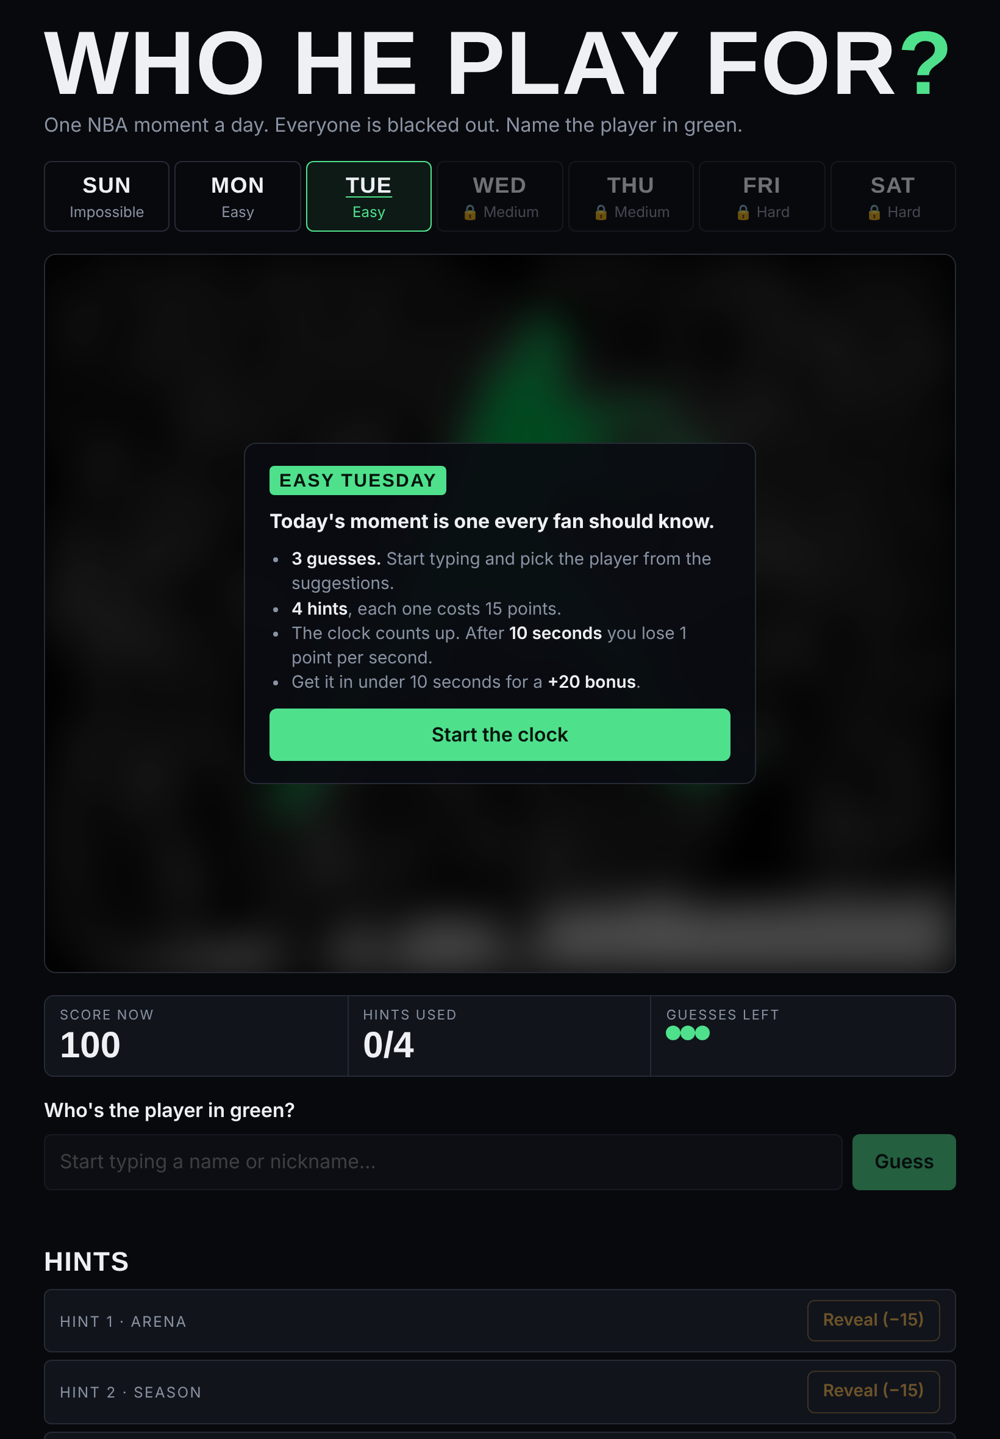
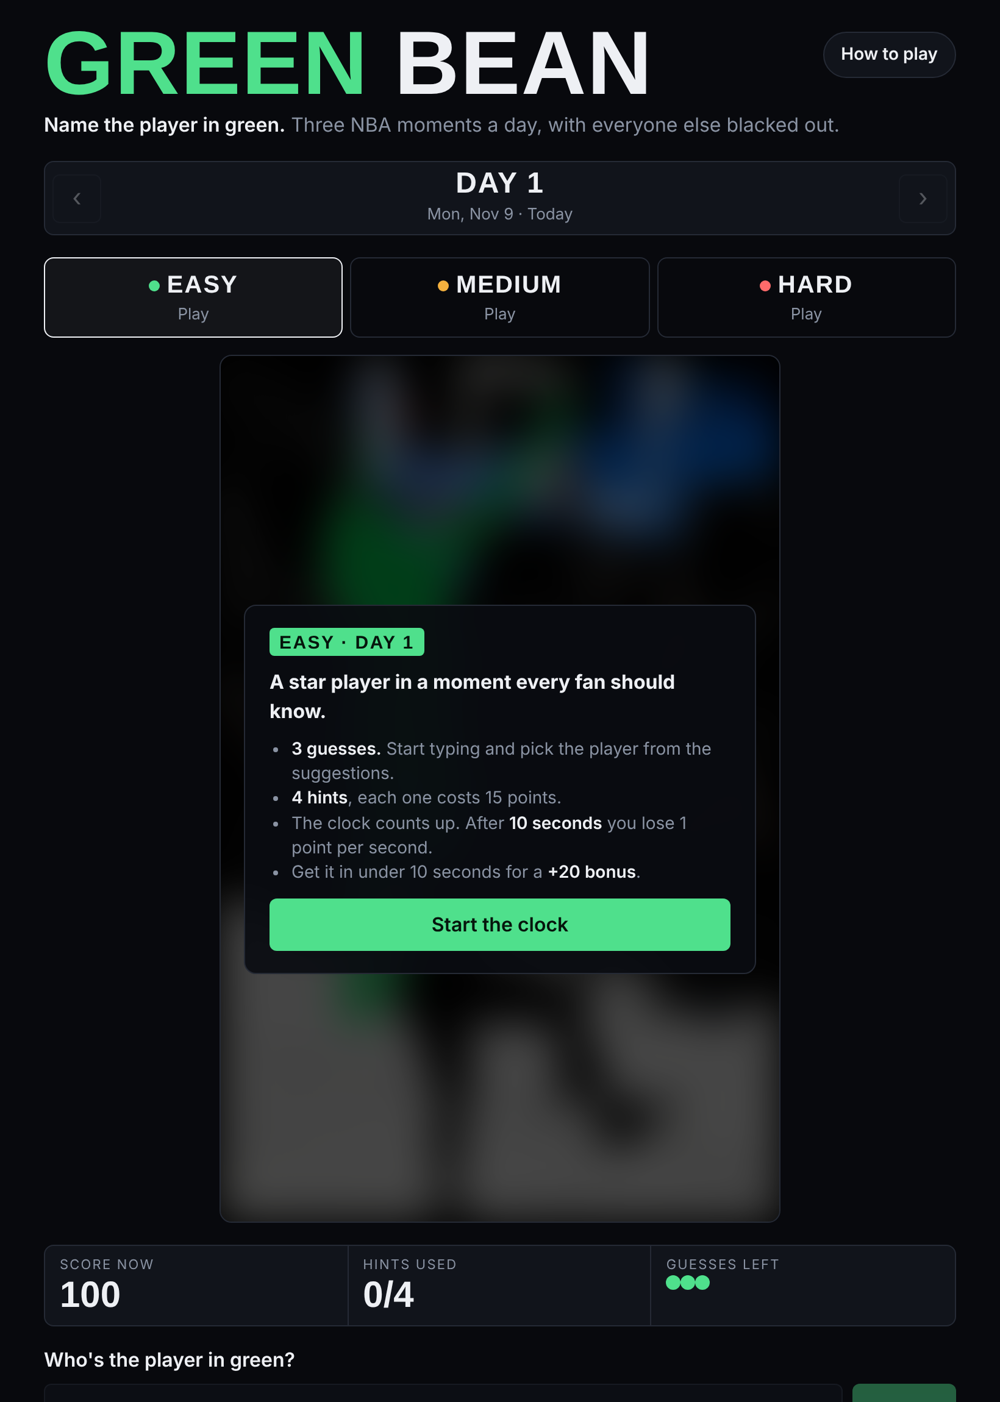
Rename to Green Bean and update screenshot

diff --git a/README.md b/README.md
@@ -1,10 +1,10 @@
-# Who He Play For?
+# Green Bean
 
-A daily NBA guessing game. Every day there are three moments from NBA history: one Easy, one Medium, and one Hard. Everyone in the scene is blacked out except one player in green. Your job is to name him.
+**Name the player in green.** A daily NBA guessing game. Every day there are three moments from NBA history: one Easy, one Medium, and one Hard. Everyone in the scene is blacked out except one player in green. Your job is to name him.
 
 ### ▶ [Play it here](https://who-he-play-for.naveenpradeepnair.workers.dev)
 
-<img src="assets/start-screen.png" alt="Who He Play For? start screen" width="480">
+<img src="assets/start-screen.png" alt="Green Bean start screen" width="480">
 
 ## How to play
 
